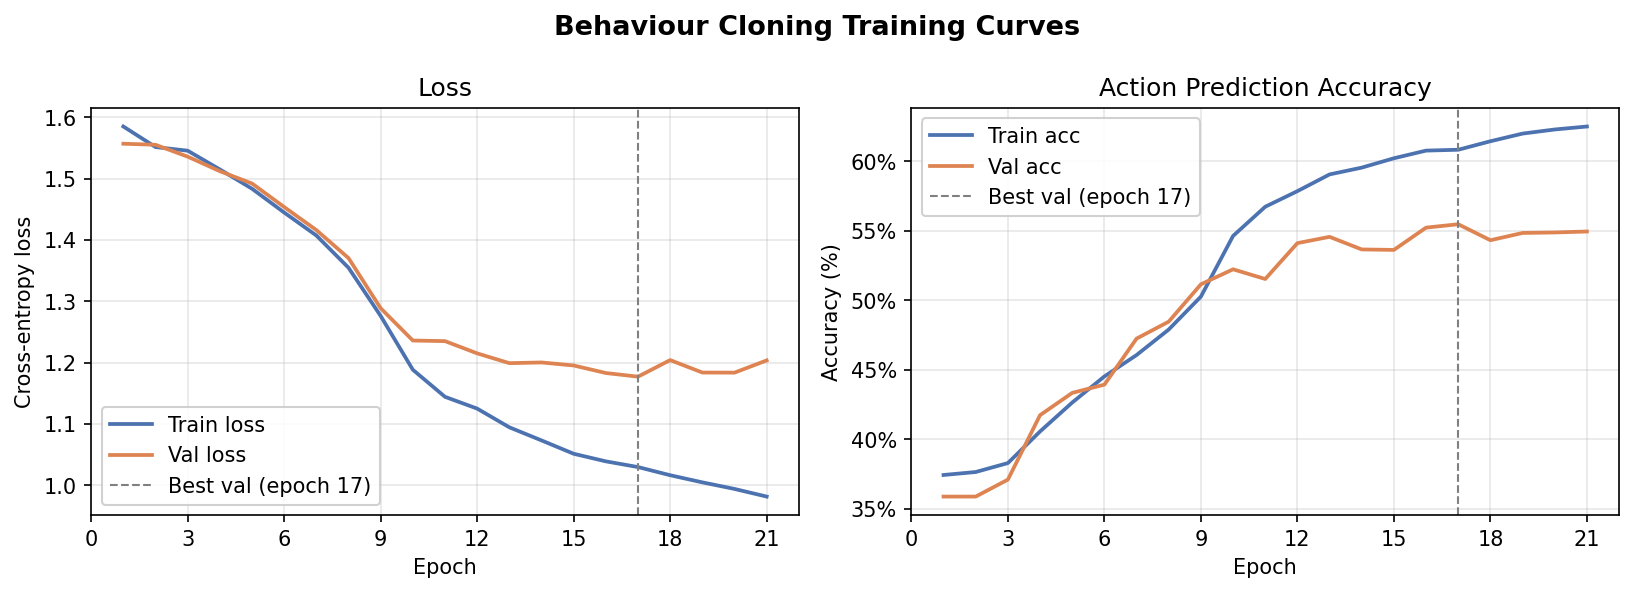
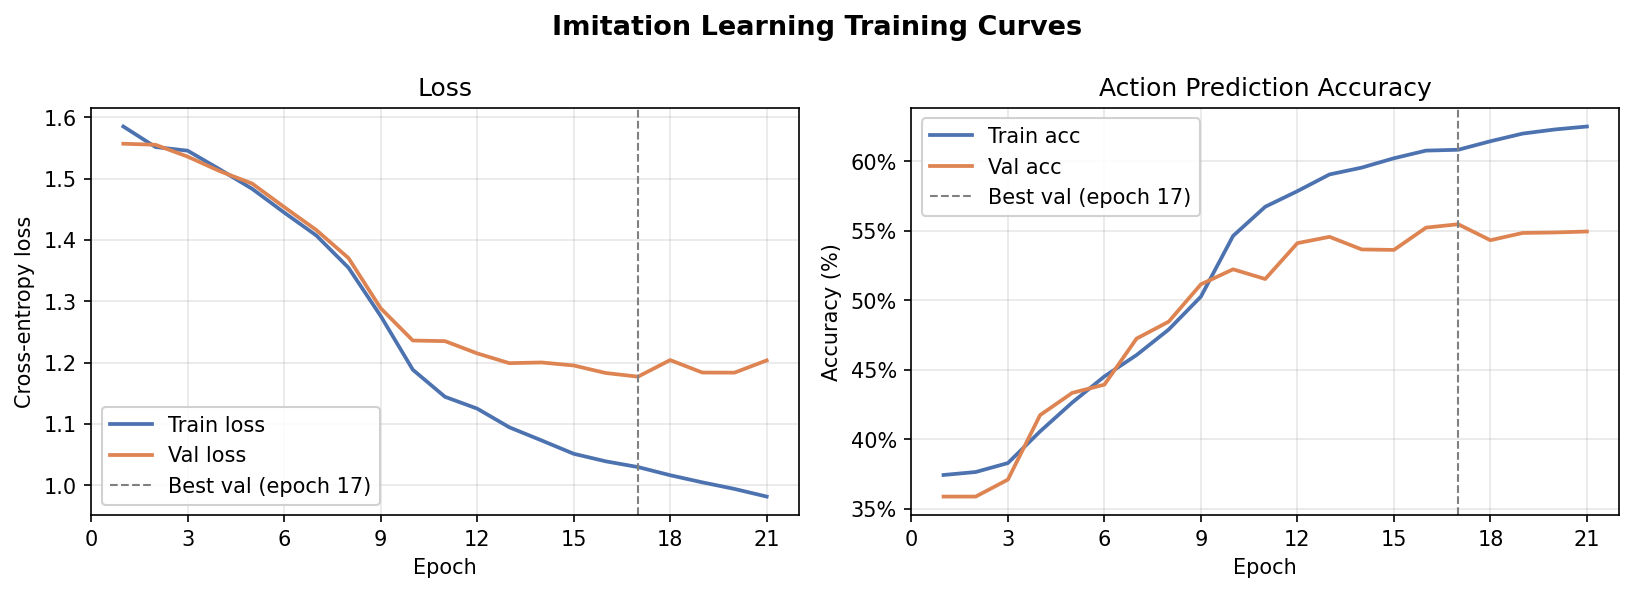
Final commit

Changed region(s): [[0.3433, 0.0304, 0.6554, 0.0607]]

diff --git a/scripts/plot_bc_curves.py b/scripts/plot_bc_curves.py
@@ -34,7 +34,7 @@ def main():
     best_epoch = min(history, key=lambda e: e["val_loss"])["epoch"]
 
     fig, (ax_loss, ax_acc) = plt.subplots(1, 2, figsize=(11, 4))
-    fig.suptitle("Behaviour Cloning Training Curves", fontsize=13, fontweight="bold")
+    fig.suptitle("Imitation Learning Training Curves", fontsize=13, fontweight="bold")
 
     # ---- Loss ----
     ax_loss.plot(epochs, train_loss, label="Train loss", color="#4C72B0", linewidth=1.8)

diff --git a/README.md b/README.md
@@ -1,8 +1,8 @@
 # Super Mario Bros Reinforcement Learning
 
-Final year project — BSc Computer Science, Queen Mary University of London.
+Final year project BSc Computer Science, Queen Mary University of London.
 
-Training a reinforcement learning agent to play **Super Mario Bros** through a combination of Proximal Policy Optimisation (PPO) and Behaviour Cloning (BC). The central research question is whether BC-initialised PPO improves training speed, stability, and final performance compared to PPO trained from scratch.
+Training a reinforcement learning agent to play Super Mario Bros through a combination of Proximal Policy Optimisation (PPO) and Imitation Learning (IL). The central research question is whether IL initialised PPO improves training speed, stability, and final performance compared to PPO trained from scratch.
 
 ## Project structure
 